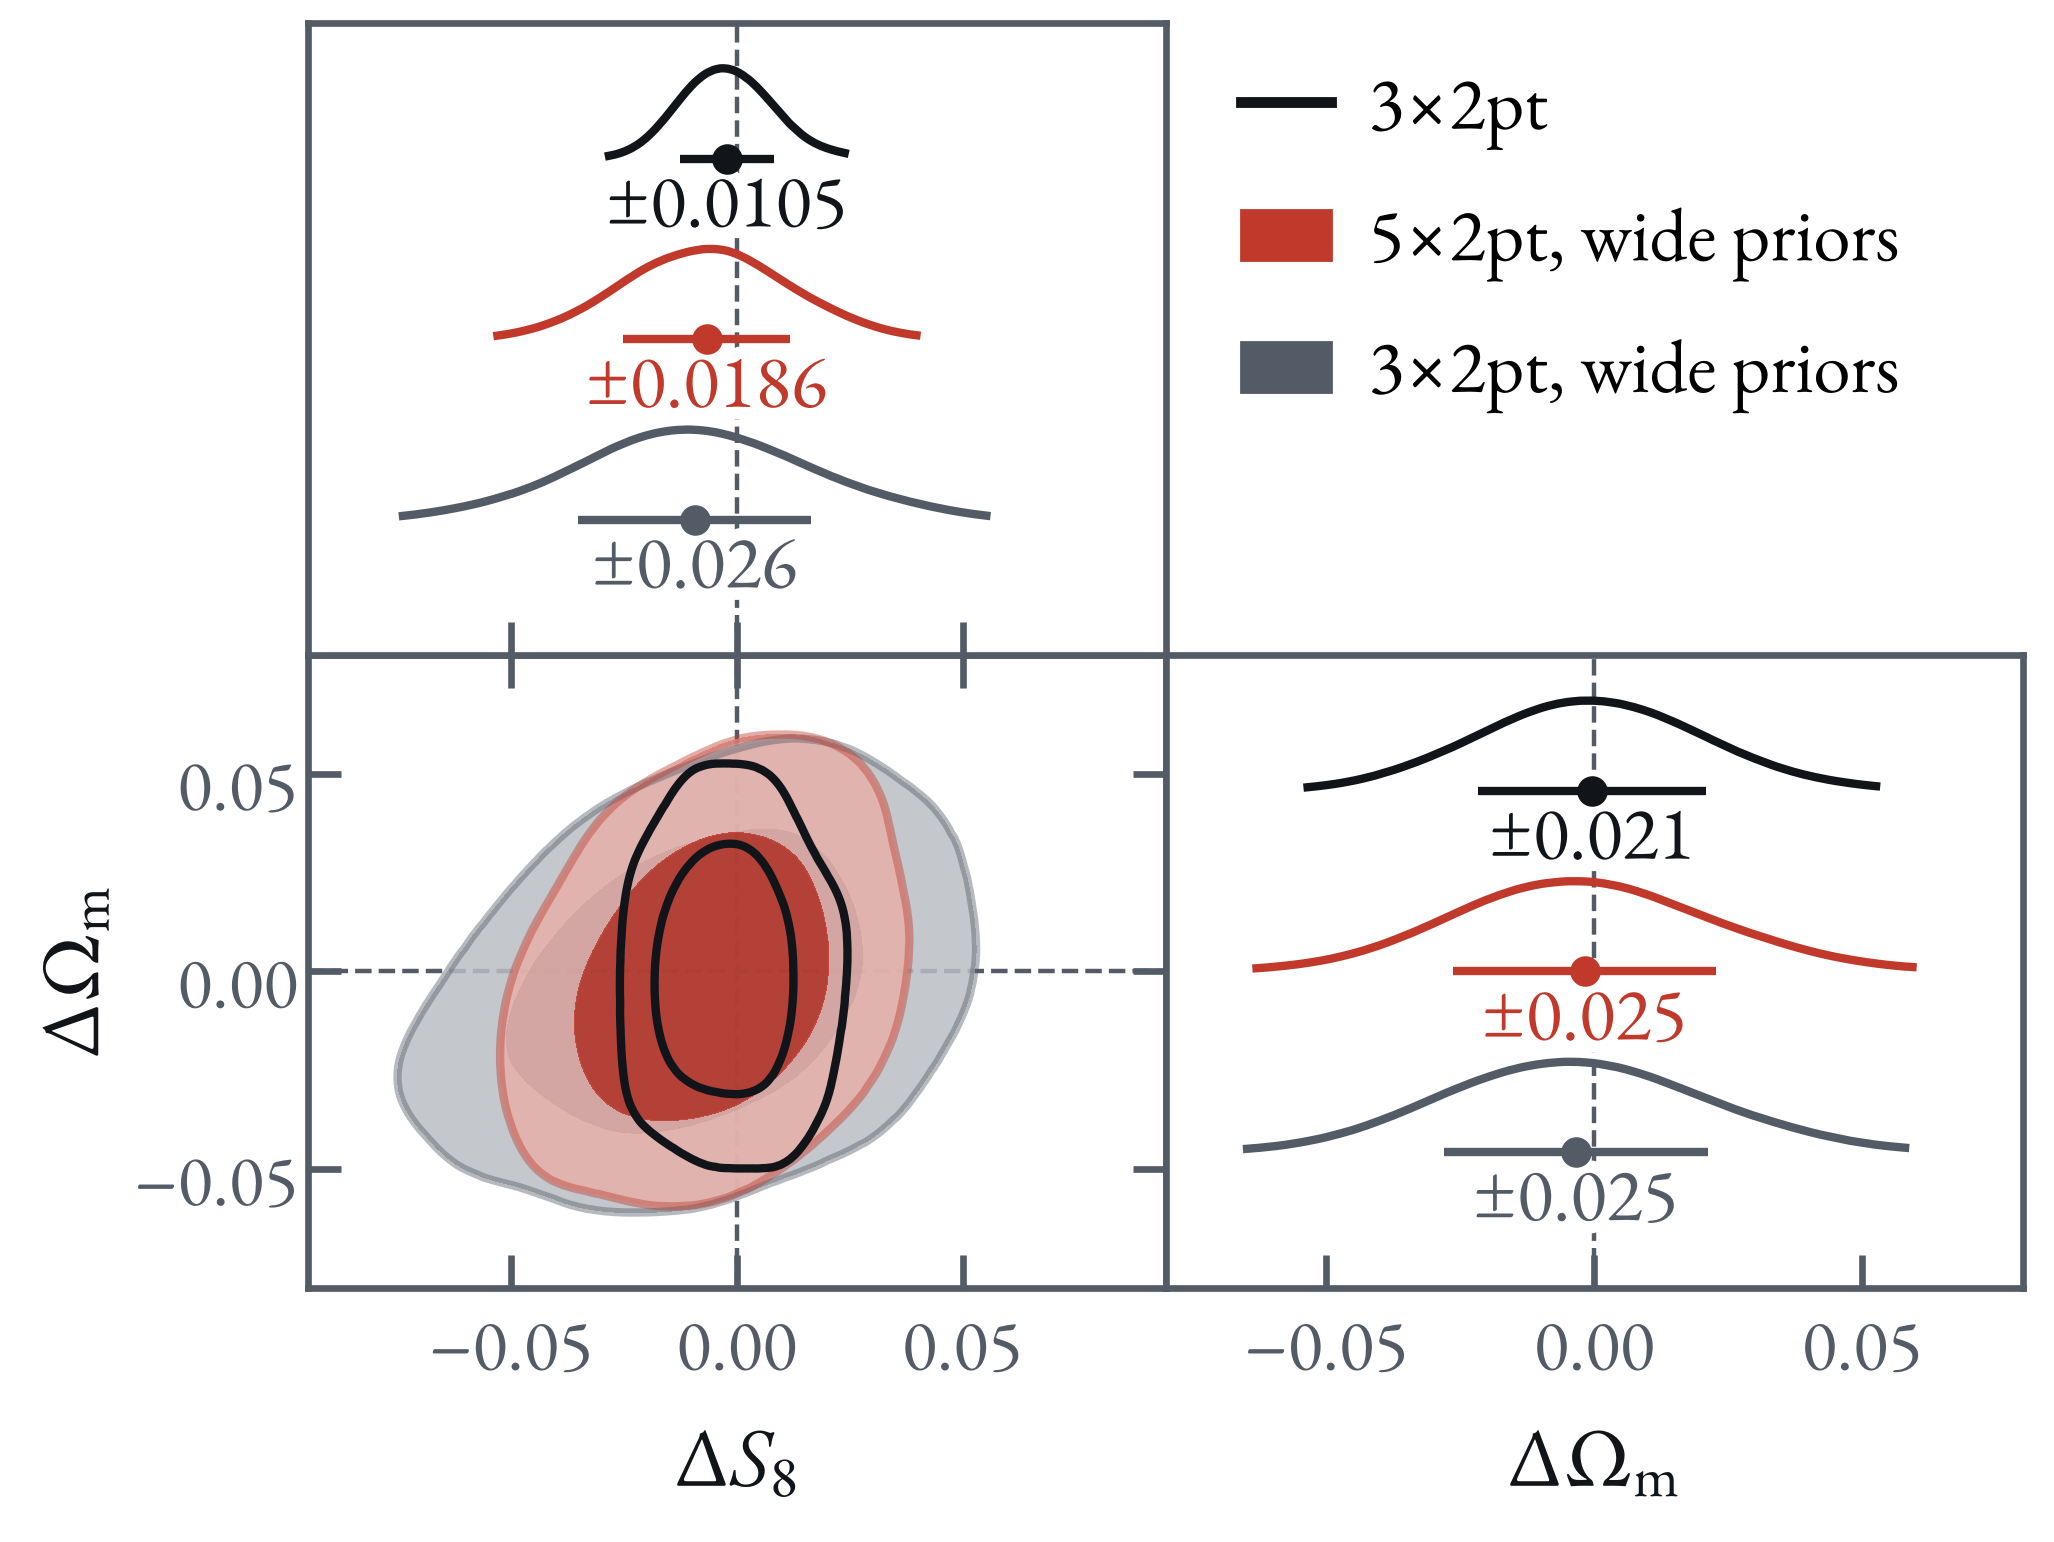
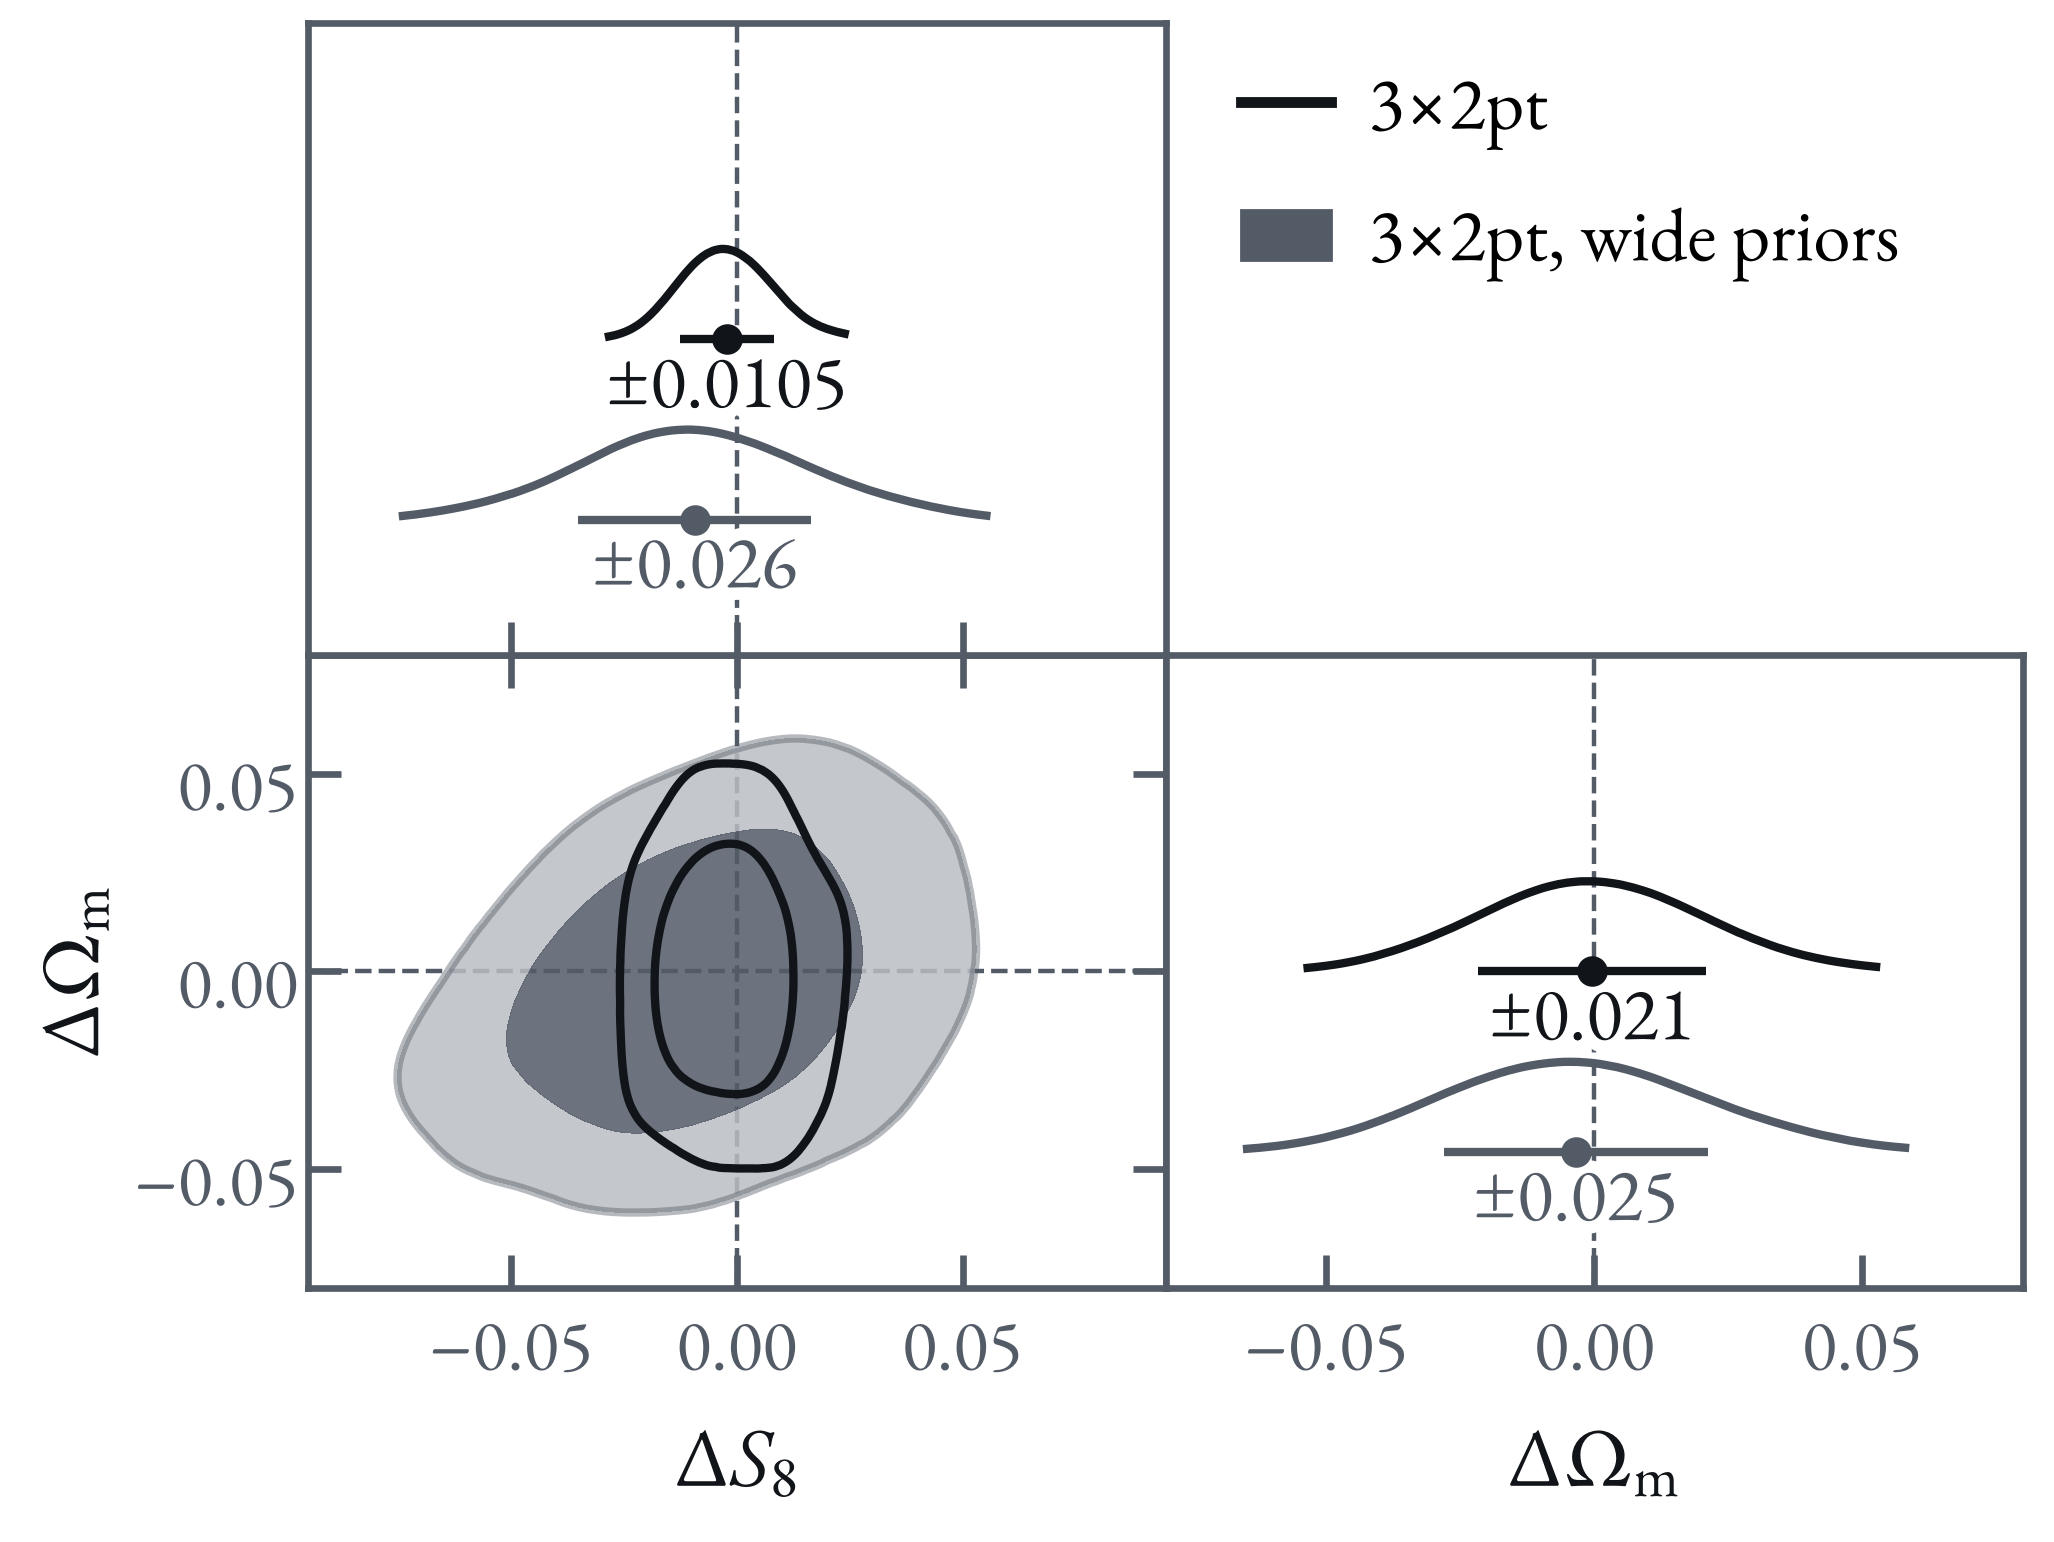
ICE dr1-forecast: wide priors arrive in three steps with the 5×2pt as the bottom row; the forecast comes before the blinded posteriors
Claude-Session: https://claude.ai/code/session_01JK7o9HLVAQSEbDDkHmrKC6

diff --git a/2611_ICE_Barcelona/slides/dr1-forecast.html b/2611_ICE_Barcelona/slides/dr1-forecast.html
@@ -4,11 +4,12 @@
     <img src="images/ice_dr1_forecast_1.png" alt="Forecast S8 against Omega_m for Euclid DR1 3x2pt on its own, a tilted ellipse">
     <img class="fragment" data-fragment-index="1" src="images/ice_dr1_forecast_2.png" alt="The 5x2pt with SPT-3G and with ACT DR6 drawn over it: both nearly the same as the 3x2pt">
     <img class="fragment" data-fragment-index="2" src="images/ice_dr1_forecast_3.png" alt="The 6x2pt with SPT-3G and with ACT DR6 in their place: the SPT-3G ellipse has less than half the area of the 3x2pt">
-    <img class="fragment" data-fragment-index="3" src="images/ice_dr1_forecast_4.png" alt="With the priors on shear m and the source redshifts ten times wider: the 3x2pt contour grows to more than twice its width in S8, the 5x2pt with SPT-3G grows less">
+    <img class="fragment" data-fragment-index="3" src="images/ice_dr1_forecast_4.png" alt="With the priors on shear m and the source redshifts ten times wider, the 3x2pt contour grows to more than twice its width in S8">
+    <img class="fragment" data-fragment-index="4" src="images/ice_dr1_forecast_5.png" alt="The 5x2pt with SPT-3G under the same wide priors, added as the bottom row: it grows less than the 3x2pt">
     <span class="source">SPT-3G: Main and Summer fields together</span>
   </figure>
   <div class="text">
-    <img class="fragment" data-fragment-index="3" src="images/ice_dr1_shear_m.png" alt="Shear bias m per source redshift bin with the wide prior: the 5x2pt with SPT-3G measures m more tightly than the 3x2pt in bins 2 to 6">
+    <img class="fragment" data-fragment-index="5" src="images/ice_dr1_shear_m.png" alt="Shear bias m per source redshift bin with the wide prior: the 5x2pt with SPT-3G measures m more tightly than the 3x2pt in bins 2 to 6">
   </div>
   <aside class="notes">
     <ul class="skim">

diff --git a/2611_ICE_Barcelona/make_dr1_forecast.py b/2611_ICE_Barcelona/make_dr1_forecast.py
@@ -4,7 +4,7 @@ Reads the nested-sampling posteriors of the noiseless DR1 chains, chain names dr
 /leonardo_scratch/large/userexternal/cdaley00/dr1-forecast: slim.npz (derived parameters and weights) and slim_ice.npz
 (the same, with shear m and source redshift shifts, for the two chains whose priors on both are ten times wider).
 Everything is drawn relative to the input cosmology. Writes to images/:
-  ice_dr1_forecast_<k>.png   build frames: the 3x2pt alone; the 5x2pt with SPT-3G and with ACT over it; the 6x2pt in
+  ice_dr1_forecast_<k>.png   build frames (the last two with wide priors: the 3x2pt, then the 5x2pt added): the 3x2pt alone; the 5x2pt with SPT-3G and with ACT over it; the 6x2pt in
                              their place; the wide-prior 3x2pt and 5x2pt (its own, wider axes)
   ice_dr1_shear_m.png        shear m of each source bin in the wide-prior chains, 3x2pt against 5x2pt
 and dr1_forecast.json (sigma of S8, Omega_m, sigma8 for every chain, and the figure of merit 1/sqrt(det C) of
@@ -74,15 +74,18 @@ def main():
     base = chain(z, 'dr1_3x2', '3×2pt', EUCLID)
     frames = [[base]] + [[base, chain(z, f'dr1_MS_{n}x2', f'{n}×2pt with SPT-3G', SPT),
                           chain(z, f'dr1_A_{n}x2', f'{n}×2pt with ACT DR6', ACT, False)] for n in (5, 6)]
-    frames.append([chain(zw, 'dr1_3x2_pw10', '3×2pt, wide priors', EUCLID),
-                   chain(zw, 'dr1_MS_5x2_pw10', '5×2pt, wide priors', SPT),
-                   chain(z, 'dr1_3x2', '3×2pt', style.INK, False)])
+    # wide priors, in two frames: the 3×2pt against itself, then the 5×2pt added as the bottom row
+    wide3 = [chain(zw, 'dr1_3x2_pw10', '3×2pt, wide priors', EUCLID), chain(z, 'dr1_3x2', '3×2pt', style.INK, False)]
+    frames += [wide3, [chain(zw, 'dr1_MS_5x2_pw10', '5×2pt, wide priors', SPT)] + wide3]
     for k, chains in enumerate(frames, 1):
-        wide = k == 4
+        wide = k >= 4
         fig = posteriors(
             chains, D, center=truth, value=False, rows=3,
             lims={'Omega_m': (-.08, .08) if wide else (-.07, .07), 'S8': (-.095, .095) if wide else (-.036, .036)},
             ticks={'Omega_m': [-.05, 0, .05], 'S8': [-.05, 0, .05] if wide else [-.02, 0, .02]})
+        if k == 5:   # rows follow the chain order; the 5×2pt contour is still drawn over the wide 3×2pt
+            sets = fig.axes[0].collections
+            sets[0].set_zorder(2.5); sets[1].set_zorder(2.6); sets[4].set_zorder(3)
         save(fig, f'ice_dr1_forecast_{k}.png')
     fig_m(zw)
     names = sorted({k.split('|')[0] for k in z.files if k.startswith(('dr1_', 'tr1_'))})
